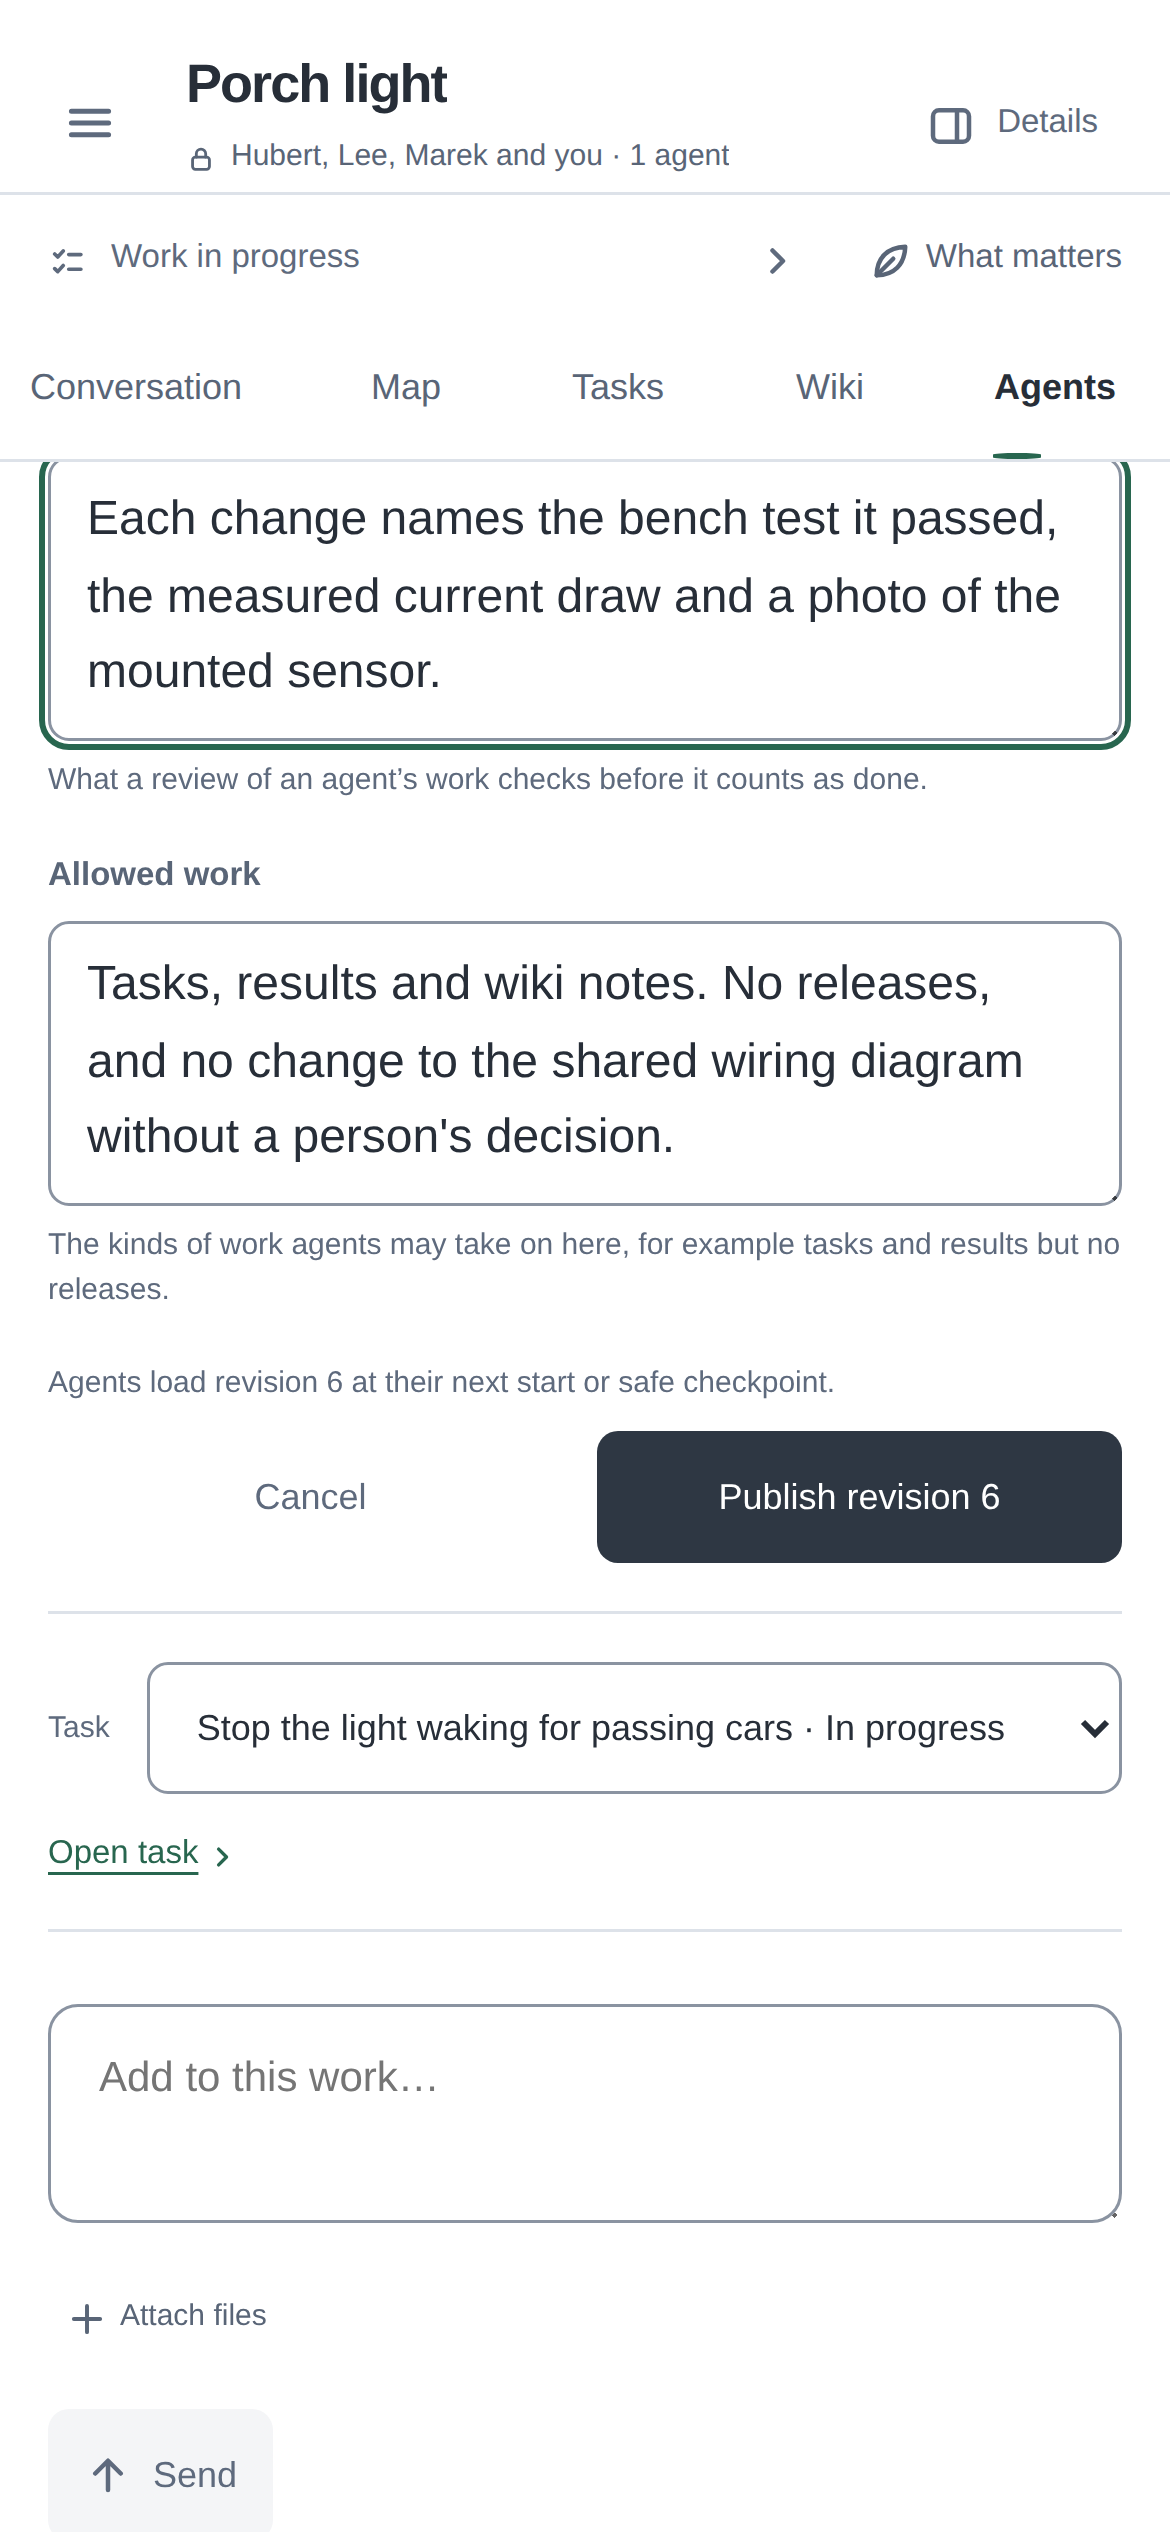
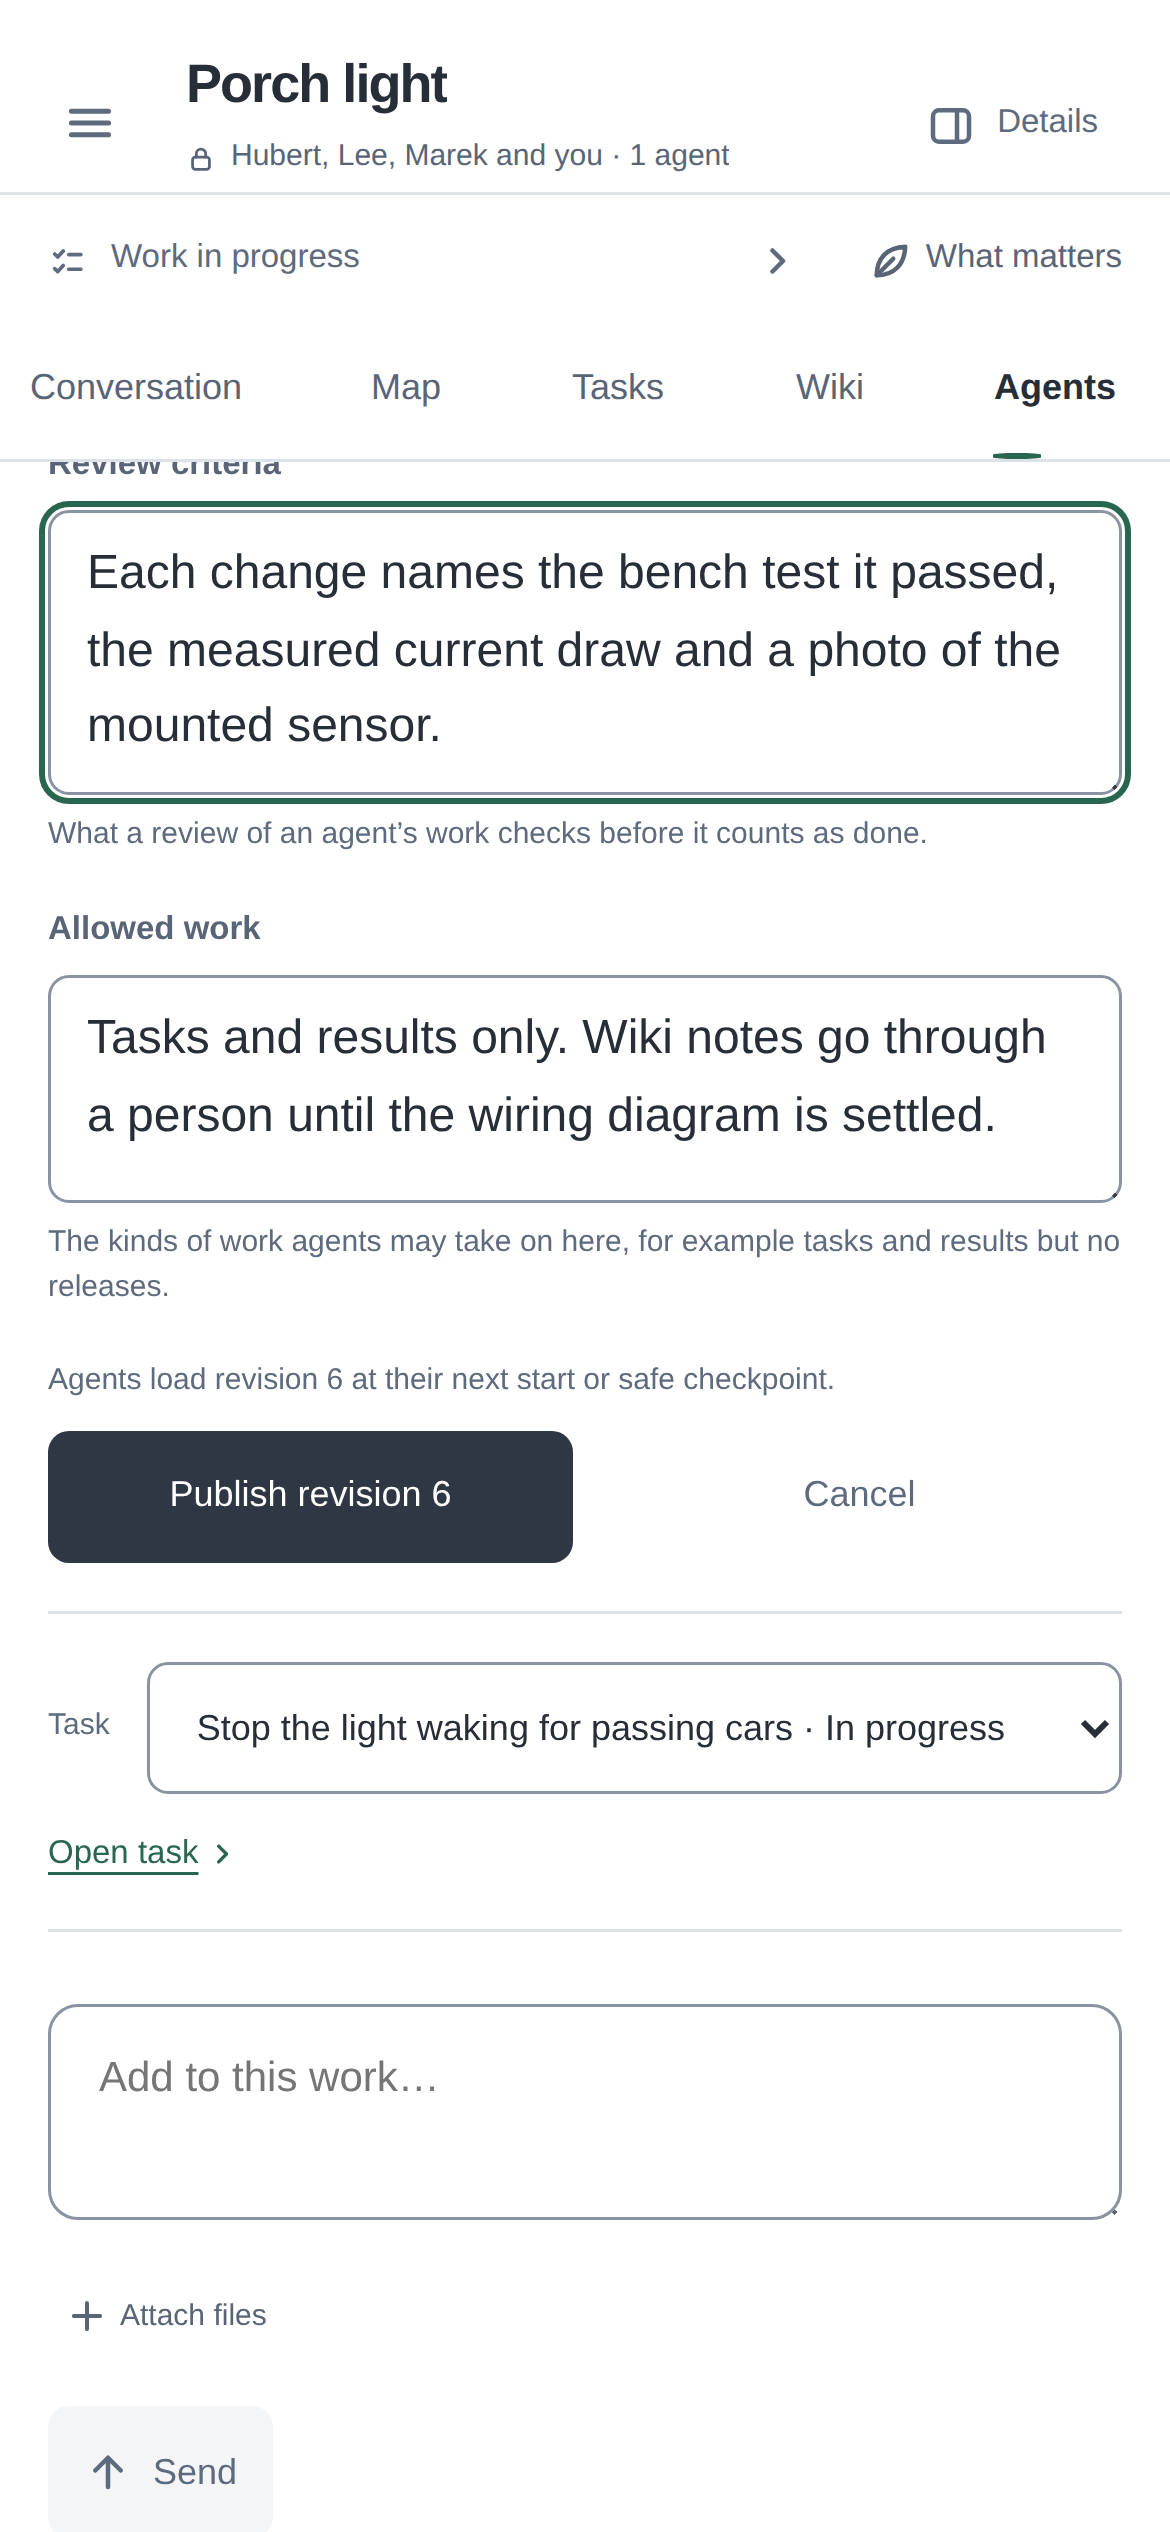
docs(agents): evidence for the agent policy editor (#160 T160-b)
Runs, negative controls, the independent visual review and screenshots at
e4b63298. This commit adds only evidence and the agent-connection note.

Changed region(s): [[0.0308, 0.1872, 0.9846, 0.624], [0.1231, 0.9672, 0.1846, 0.9984], [0.0615, 0.6552, 0.0923, 0.6864]]

diff --git a/docs/agents/evidence/160-policy-editor/README.md b/docs/agents/evidence/160-policy-editor/README.md
@@ -1,0 +1,122 @@
+# Agent policy editor in the Agents view (#160, T160-b)
+
+Tested code: `e4b63298`, branch `claude-maurycy/160-policy-editor`, based on protected main
+`698313b3`. The commit that adds this evidence changes only this directory. Owner of the slice:
+Zamojski5 (claude-maurycy), taking over from PelikanFix16
+([claim](https://github.com/ColdPhase/flux/issues/160#issuecomment-6002521933)). Independent
+evaluation is still required. #160 stays open (see "What remains").
+
+## What changed
+
+- **UI.** The project's Agents view shows the approved agent policy as one folded line under the
+  connections: revision, publisher and time
+  (`app/apps/web/src/agents/ProjectPolicy.tsx`, `policy.css`; `ProjectAgents.tsx` only renders it).
+  - Project managers (workspace owners and admins) write or edit the four parts (scope, priorities,
+    review criteria, allowed work) and publish the next revision from the one they loaded. Each
+    attempt has its own `Idempotency-Key`, and a retry after a lost answer reuses it.
+  - The editor checks the server's rules before sending and names the part at fault: no part over
+    4,000 characters (counted as code points, like the server) and at least one part written.
+  - A newer revision published by someone else shows in an open editor at once. Publishing then
+    answers `409 VERSION_CONFLICT`. The manager's text is kept, the parts the other manager changed
+    are named, each can be taken over with "Use their …", and only pressing Publish again replaces
+    that revision.
+  - Everyone else who can read the project sees the parts read-only, with the managers named when
+    there are three or fewer. An open view follows `project.agent_policy_published.v1` without a
+    reload.
+- **API.** None. The editor uses #214's `GET`/`PUT /api/v1/projects/:id/agent-policy` and
+  bootstrap's `trusted.approvedPolicy` unchanged, so no amendment was needed.
+  - The brief's "required capabilities" and "allowed workflows/modules" are not project-policy
+    fields in CW-1. Required capabilities are declared per module by the `flux.cowork` bundle.
+    Which work agents may take on is the "Allowed work" part.
+  - Observed while testing: Fastify's default schema options drop unknown body fields rather than
+    refusing them. This is unchanged here and is not part of this slice.
+- **Tests.**
+  - `app/tests/app/agent-policy.test.ts` keeps #214's 5 tests and adds a second suite of 4 that
+    follows one agent's bootstrap, in one resumed client session, across publishes:
+    - a workspace admin, then the owner, publish, and the same session's next `flux_bootstrap` names
+      revision 1, then 2 (digest and resource URI). Both revisions stay readable through
+      `flux://policy/…`.
+    - a contributor and a viewer (403 `FORBIDDEN`), a workspace member without access (404) and the
+      agent's own bearer on the HTTP `PUT` (401) are refused. Nothing changes and bootstrap is
+      unchanged.
+    - an invalid policy is refused with a specific reason and changes nothing: whitespace only gives
+      `POLICY_EMPTY`; 4,001 characters gives a message naming `priorities` and the limit; a missing
+      part, `expectedRevision` −1 and 1.5 are also refused.
+    - two managers edit the same revision: the second gets `VERSION_CONFLICT` with
+      `currentVersion` and the newer policy as `current`. The agent is never told the refused edit.
+      Publishing from the shown revision then succeeds.
+  - `app/tests/ui/test_project_policy.py` has 7 tests at desktop 1440 and phone 390 (coarse
+    pointer). The phone checks: the context's pointer is coarse; the fields use 16 px text; Show,
+    Hide, Edit, Publish and Cancel are at least 44 px tall; no sideways scroll. Every publish is
+    checked against the server's saved revision.
+- **Docs.** `docs/development/agent-connection.md`, "Approved project policy": an "Editor (T160-b)"
+  item.
+
+## Runs (Docker, one at a time through the shared slot lock)
+
+| Run | Code | Result |
+| --- | --- | --- |
+| API, `tests/app/agent-policy.test.ts` (image build ran build, typecheck and lint) | `1899e6f4`; server, core and this test file unchanged since | 9/9 pass |
+| UI, `check_ui.sh test_project_policy test_agents_view test_grant_controls test_shared_composer test_typing test_app_shell` | `8f0ba3f3`; application code unchanged since | 72/72 OK (6 + 17 + 4 + 14 + 11 + 20) |
+| UI, `check_ui.sh test_project_policy` (these screenshots) | `e4b63298` | 7/7 OK |
+| `./scripts/check_application.sh` (build, typecheck, lint, app tests and every browser/e2e phase) | `e4b63298` | exit 0: 943/943 application tests, then 13 later phases with 20/20 tests; 0 failures |
+
+## Negative controls
+
+Each patch in [negative-controls/](negative-controls/) breaks one or more behaviors in a scratch
+copy of `e4b63298`. The tests named below then fail, and the others still pass.
+
+| Patch | Behavior removed | Failing tests (observed) |
+| --- | --- | --- |
+| `negU.patch` | (a) the editor is offered regardless of project access; (b) the base revision is refetched right before publishing, a silent overwrite; (c) no client check of the length before sending; (d) the fields keep 14 px text on a coarse pointer | `test_01b` (a: "Write policy" offered to a contributor), `test_02` (c: the alert reads the server's generic length message, not "Shorten Priorities to publish"), `test_03` (b: no conflict, Hubert's publish replaced Ola's), `test_04` (d: 14 px, not 16), `test_05` (a: an editor instead of "Only Hubert Nowak or Ola Kowalska can change it."). 5 fail; `test_01` and `test_06` pass |
+| `negA.patch` | (1) bootstrap names revision 1 instead of the newest; (2) any project reader may publish; (3) a stale `expectedRevision` is ignored, so the last write wins | Editor suite: test 1 (1: the next bootstrap still names revision 1, not 2), test 2 (2: a contributor's publish returned 201, not 403), test 4 (3: the stale publish returned 201, not 409); the invalid-policy test passes. #214's first and fifth tests also fail, as they check the same rules. 5 fail, 4 pass |
+
+## Independent visual review
+
+A separate reviewer saw only a neutral brief and the screenshots, taken at `6022fc6a`. The verdict
+was "acceptable with changes", with nothing blocking. Changed in `8f0ba3f3`:
+
+- The conflict had been one large tinted block showing the whole other revision. It is now one
+  tinted line plus only the parts the other manager changed, each with "Use their …".
+- Publish now comes before Cancel, as in the app's other forms.
+- Readers are told who can change the policy.
+- The "Published …" line no longer repeats the note's opening words.
+
+Not changed:
+
+- The policy is already folded by default; the reader screenshots were taken after "Show policy".
+- The grey "Hide policy" is the shared button's hover state, left by the click.
+- The fields use the column width, like the task composer below them.
+
+## Screenshots
+
+- Desktop 1440:
+  - `policy-none-reader-desktop-1440.png` (a contributor before any publish)
+  - `policy-edit-desktop-1440.png`
+  - `policy-read-desktop-1440.png`
+  - `policy-conflict-desktop-1440.png`
+  - `policy-conflict-actions-desktop-1440.png`
+  - `policy-marek-desktop-1440.png` (contributor)
+  - `policy-lee-desktop-1440.png` (viewer)
+- Phone 390 (3x, coarse pointer):
+  - `policy-edit-phone-390.png`
+  - `policy-read-phone-390.png`
+  - `policy-marek-phone-390.png`
+  - `policy-lee-phone-390.png`
+
+Screenshots do not prove interaction or accessibility; the browser tests above exercise those in
+the running application.
+
+## What remains of #160
+
+This slice is T160-b only. It counts toward AC-1 (the bounded, approved project policy) and AC-4
+(a project-policy update reaching the agent's next bootstrap). Still open:
+
+- **T160-a:** the playbook names every tool.
+- **Inbox, safe-checkpoint scheduling and recovery (AC-3/AC-4):** these need #153.
+- **AC-5:** the Agents controls (Start/Resume/Pause/Stop and the request states) need #136.
+- **AC-2:** real Claude Code and Codex onboarding in a fresh context, with pinned versions. This
+  needs Maurycy.
+
+The F-018 row of the release acceptance ledger (`docs/agents/release-acceptance/v0.1.0-rc.1.md`)
+lives on `claude-maurycy/release-prep` and is not changed here.

diff --git a/docs/development/agent-connection.md b/docs/development/agent-connection.md
@@ -454,9 +454,10 @@ anything; only this publish writes it, never message, PR, wiki or tool text.
   managers (workspace owners and admins) write or edit the four parts and publish the next revision
   from the one they loaded, with one `Idempotency-Key` per attempt. The editor checks the server's
   rules first (no part over 4,000 characters, at least one part written) and names the part at
-  fault. A `409 VERSION_CONFLICT` keeps the manager's text and shows the newer revision; publishing
-  again replaces it knowingly. Everyone else who can read the project sees the parts read-only. The
-  view refetches on `project.agent_policy_published.v1`, so an open view follows a new revision.
+  fault. A `409 VERSION_CONFLICT` keeps the manager's text and names the parts the other manager
+  changed, each of which can be taken over; publishing again replaces that revision knowingly.
+  Everyone else who can read the project sees the parts read-only. The view refetches on
+  `project.agent_policy_published.v1`, so an open view, and an open editor, see a new revision.
   It uses the existing API; nothing was added to it. Tests: `agent-policy.test.ts` (a publish
   reaches the same session's next bootstrap; refusals and invalid policies change nothing; a
   conflict carries the newer policy) and `tests/ui/test_project_policy.py` (1440 and 390 px).
